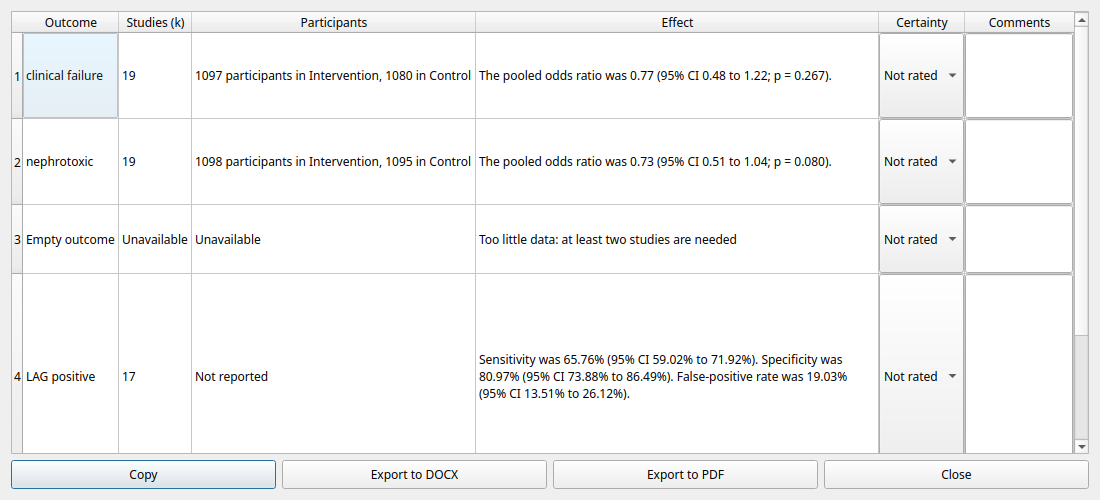
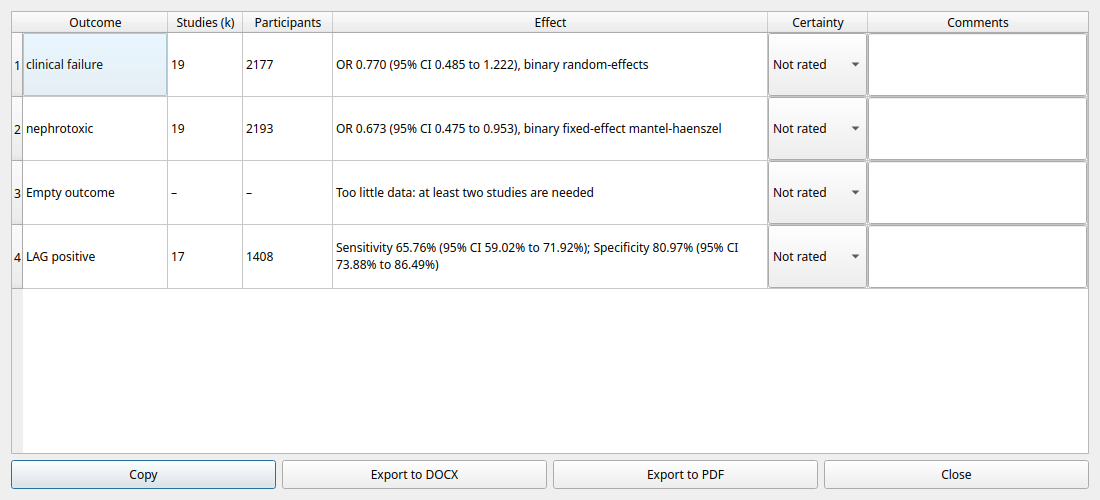
Use structured results for concise summary of findings cells

diff --git a/tests/e2e/summary_of_findings.py b/tests/e2e/summary_of_findings.py
@@ -19,6 +19,23 @@ def run(app, window, work, root, record, analyze):
     window.data_dirtied()
     window.out_path = str(work / 'summary-fixture.rcms')
     assert window.save()
+    expected = []
+    for index, method in enumerate(('binary.random', 'binary.fixed.mh')):
+        window.model.set_current_sheet(window.model.dataset.sheets[index].id)
+        window.model.current_sheet.settings['analysis'] = {'method': method, 'parameters': {'digits': 3}}
+        view = analyze(app, window, method)
+        expected.append(view.results)
+        from rc_metastudio import r_bridge
+        raw = window.model.get_current_raw_data()
+        columns = [','.join(str(row[i]) for row in raw) for i in range(4)]
+        data = 'a<-c(' + columns[0] + '); n1<-c(' + columns[1] + '); c<-c(' + columns[2] + '); n2<-c(' + columns[3] + ');'
+        fit = 'metafor::rma.uni(measure="OR",ai=a,bi=n1-a,ci=c,di=n2-c,method="DL",drop00=FALSE)' if index == 0 else 'metafor::rma.mh(measure="OR",ai=a,bi=n1-a,ci=c,di=n2-c,drop00=FALSE)'
+        reference = list(r_bridge.execute_r_string('local({' + data + ' fit<-' + fit + '; sprintf("%.3f",exp(c(fit$b,fit$ci.lb,fit$ci.ub)))})'))
+        record('summary-direct-metafor', view, reference=reference, raw=raw)
+        for table in (t for section in view.results.sections for t in section.tables if t.title.endswith('Model Results')):
+            assert list(table.rows[0][:3]) == reference
+        view.close()
+    window.model.set_current_sheet(window.model.dataset.sheets[0].id)
     action = next((a for a in window.menuAnalysis.actions()
                    if a.text() == 'Summary of findings'), None)
     assert action is not None, 'Analysis menu lacks Summary of findings'
@@ -27,6 +44,16 @@ def run(app, window, work, root, record, analyze):
     dialog = window.summary_of_findings_dialog
     assert dialog.table.rowCount() == 4
     for row in range(2):
+        assert '; p =' not in dialog.table.item(row, 3).text()
+        assert dialog.table.item(row, 2).text().isdigit()
+        assert ('random-effects' if row == 0 else 'fixed-effect') in dialog.table.item(row, 3).text()
+        for section in expected[row].sections:
+            for table in section.tables:
+                if table.title.endswith('Model Results'):
+                    cells = dict(zip(table.headers, table.rows[0]))
+                    for key, value in cells.items():
+                        if key == 'Estimate' or key.startswith(('Lower bound', 'Upper bound')):
+                            assert value in dialog.table.item(row, 3).text()
         assert dialog.table.item(row, 1).text() != '0'
         assert 'CI' in dialog.table.item(row, 3).text()
         assert dialog.table.cellWidget(row, 4).currentText() == 'Not rated'
@@ -46,9 +73,25 @@ def run(app, window, work, root, record, analyze):
     dialog.grab().save(str(screens / 'slice9-sof-dark.png'))
     app.setPalette(original)
     report = dialog.report()
-    from rc_metastudio.manuscript_report import write_docx, write_pdf
-    write_docx(report, work / 'summary.docx')
-    write_pdf(report, work / 'summary.pdf')
+    next(b for b in dialog.findChildren(QtWidgets.QPushButton) if b.text() == 'Copy').click()
+    mime = app.clipboard().mimeData()
+    assert mime.hasHtml() and '<table' in mime.html()
+    assert '\t' in mime.text() and 'clinical failure' in mime.text()
+    from unittest.mock import patch
+    from PyQt6.QtCore import QTimer
+    for suffix in ('docx', 'pdf'):
+        path = work / ('summary.' + suffix)
+        def picker(*args, **kwargs):
+            chooser = QtWidgets.QFileDialog(dialog)
+            chooser.setOption(QtWidgets.QFileDialog.Option.DontUseNativeDialog)
+            chooser.setAcceptMode(QtWidgets.QFileDialog.AcceptMode.AcceptSave)
+            chooser.selectFile(str(path))
+            QTimer.singleShot(0, chooser.accept)
+            assert chooser.exec()
+            return chooser.selectedFiles()[0], ''
+        with patch.object(QtWidgets.QFileDialog, 'getSaveFileName', side_effect=picker):
+            next(b for b in dialog.findChildren(QtWidgets.QPushButton) if b.text() == 'Export to ' + suffix.upper()).click()
+        assert path.exists()
     document = Document(work / 'summary.docx')
     assert len(document.tables[0].rows) == 5
     assert document.tables[0].cell(1, 4).text == 'Not rated'
@@ -58,6 +101,10 @@ def run(app, window, work, root, record, analyze):
     import unicodedata
     pdf_text = unicodedata.normalize('NFKC', pdf_text)
     assert 'Summary of findings' in pdf_text and 'Not rated' in pdf_text
+    dialog.table.cellWidget(0, 4).setCurrentText('Moderate')
+    window.undo()
+    assert window.model.dataset.sheets[0].settings.get('summary_of_findings', {}).get('certainty', 'Not rated') == 'Not rated'
+    dialog.table.cellWidget(0, 4).setCurrentText('Low')
     dialog.table.cellWidget(0, 4).setCurrentText('Moderate')
     dialog.table.cellWidget(0, 5).setText('Reviewer judgement')
     dialog.table.cellWidget(0, 5).editingFinished.emit()
@@ -70,3 +117,11 @@ def run(app, window, work, root, record, analyze):
     with zipfile.ZipFile(work / 'summary-fixture.rcms') as archive:
         project = json.loads(archive.read('project.json'))
     assert all('results' not in sheet for sheet in project['sheets'])
+    original_effect = report.sections[0].tables[0].rows[0][3]
+    window.model.dataset.sheets[0].rows[0].analysis_unit.get_raw_data_for_arm(window.model.arm_names[0])[0] += 10
+    action.trigger()
+    app.processEvents()
+    refreshed = window.summary_of_findings_dialog
+    assert refreshed.table.item(0, 3).text() != original_effect
+    record('summary-data-refresh', refreshed, effect=refreshed.table.item(0, 3).text())
+    refreshed.close()

diff --git a/src/rc_metastudio/summary_of_findings.py b/src/rc_metastudio/summary_of_findings.py
@@ -1,6 +1,6 @@
 """Reviewers' cross-outcome summary, recalculated on every opening."""
 import copy
-import re
+from rc_metastudio import app_error_handler
 from PyQt6 import QtCore, QtWidgets
 from rc_metastudio.analysis_results import ResultSection, ResultTable
 from rc_metastudio.manuscript_report import ManuscriptReport, write_docx, write_pdf
@@ -30,7 +30,7 @@ class SummaryOfFindingsDialog(QtWidgets.QDialog):
         QtWidgets.QApplication.processEvents()
         try:
             for row, sheet in enumerate(window.model.dataset.sheets):
-                values = [sheet.name, 'Unavailable', 'Unavailable', 'No analysable data']
+                values = [sheet.name, '–', '–', 'No analysable data']
                 setup = None
                 try:
                     model = DatasetTableModel(dataset=copy.deepcopy(window.model.dataset), add_blank_study=False)
@@ -41,11 +41,35 @@ class SummaryOfFindingsDialog(QtWidgets.QDialog):
                                                 confidence_level=model.get_confidence_level(),
                                                 diagnostic_metrics=("sens", "spec") if model.get_current_outcome_type() == "diagnostic" else None, parent=self)
                     result = setup._with_result_identity(window.analysis_service.execute(model, setup.analysis_requests()))
-                    report = ManuscriptReport.from_result(result)
-                    effects = [text for text in report.summary if text.startswith('The pooled ') or ' CI ' in text]
-                    counts = re.findall(r'\(([^)]*participants[^)]*)\)', result.manuscript_context)
-                    values = [sheet.name, str(len(model.get_studies())), counts[0] if counts else 'Not reported', ' '.join(effects) or report.results]
+                    effects = []
+                    for section in result.sections:
+                        for table in section.tables:
+                            if table.headers == ('Statistic', 'Value') and table.title in ('Sensitivity', 'Specificity'):
+                                cells = dict(table.rows)
+                                if not any('CI' in key for key in cells):
+                                    continue
+                                label = table.title
+                            elif table.title.endswith('Model Results') and len(table.rows) == 1:
+                                cells = dict(zip(table.headers, table.rows[0]))
+                                label = model.current_effect
+                            else:
+                                continue
+                            lower = next(v for k, v in cells.items() if k.startswith('Lower bound'))
+                            upper = next(v for k, v in cells.items() if k.startswith('Upper bound'))
+                            level = next(k.partition('(')[2].rstrip(') ').strip() for k in cells if k.startswith('Lower bound'))
+                            effects.append(f"{label} {cells['Estimate']} ({level} {lower} to {upper})")
+                    effect = '; '.join(effects)
+                    if setup.data_type != 'diagnostic':
+                        effect += ', ' + setup.method_cbo_box.currentText().lower()
+                    raw = model.get_current_raw_data()
+                    positions = {'binary': (1, 3), 'continuous': (0, 3), 'diagnostic': (0, 1, 2, 3)}.get(setup.data_type)
+                    if positions is not None:
+                        participants = sum(sum(row[i] for i in positions if i < len(row)) for row in raw)
+                    else:
+                        participants = sum(study.sample_size or 0 for study in model.get_studies())
+                    values = [sheet.name, str(len(model.get_studies())), f'{participants:g}', effect]
                 except Exception as error:
+                    app_error_handler.log_exception(type(error), error, error.__traceback__)
                     values[3] = str(error).splitlines()[0] or 'Analysis could not be completed'
                 finally:
                     if setup is not None:
@@ -68,9 +92,12 @@ class SummaryOfFindingsDialog(QtWidgets.QDialog):
         finally:
             progress.close()
             progress.deleteLater()
-        self.table.horizontalHeader().setSectionResizeMode(QtWidgets.QHeaderView.ResizeMode.ResizeToContents)
-        self.table.horizontalHeader().setSectionResizeMode(3, QtWidgets.QHeaderView.ResizeMode.Stretch)
-        self.table.resizeRowsToContents()
+        header = self.table.horizontalHeader()
+        for column, width in enumerate((145, 75, 90, 425, 100, 220)):
+            header.setSectionResizeMode(column, QtWidgets.QHeaderView.ResizeMode.Interactive)
+            self.table.setColumnWidth(column, width)
+        header.setSectionResizeMode(3, QtWidgets.QHeaderView.ResizeMode.Stretch)
+        self.table.verticalHeader().setDefaultSectionSize(64)
 
     def edit(self, sheet_id, key, value):
         sheet = self.owner.model.dataset.sheet(sheet_id)

diff --git a/docs/ux-hill-climb/SLICE9.md b/docs/ux-hill-climb/SLICE9.md
@@ -1,31 +1,52 @@
-# Slice 9: Summary of findings (partial implementation)
+# Slice 9: Summary of findings
 
-Analysis > Summary of findings opens a cross-sheet table using fresh analysis
-requests built by the ordinary setup dialog. The isolated models do not navigate
-or mutate the source sheets. Reviewer certainty and comments use sheet settings
-and workspace edit transactions. Copy uses HTML and TSV; exports reuse the
-manuscript writers. Empty sheets retain an explicit reason.
+Analysis > Summary of findings recalculates each sheet through the ordinary
+analysis setup and service, preserving saved model, parameters and sheet
+confidence level. Cells use held structured result tables rather than manuscript
+sentences: estimate and confidence interval, followed by the method; diagnostic
+rows contain only sensitivity and specificity confidence intervals. Participants
+are summed from included raw data (including all four diagnostic cells); k uses
+the included studies, retaining double-zero rows as Run does. Empty sheets show
+en dashes and a short reason. Analysis failures also log their traceback through
+the application error handler.
 
-The real-menu scenario derives a four-sheet fixture from amino and lymph and
-retains it in workflow evidence. It exercises default cells, empty data,
-diagnostic rendering, DOCX cells, PDF extracted text and reviewer-setting
-save/reopen. Light and dark captures use Qt palettes, offscreen.
+The table gives Comments useful width, narrows Certainty, and uses compact rows
+without horizontal scrolling at its default size. Both screenshots are refreshed
+from the real offscreen Qt dialog using light and dark palettes.
 
-Unfinished: independent ordinary-Run/direct-metafor cell comparisons; data-edit
-refresh assertion; diagnostic patient count (currently Not reported); reduce the
-diagnostic Effect cell to sensitivity and specificity only; report participant
-counts consistently across data families. The current table reuses manuscript
-sentences, including their p-values, rather than a concise effect-only cell.
-Export UI picker and Copy interaction assertions also remain. This is not a
-completed or qualified slice. No statistical methods or oracles changed.
+The precision discrepancy was configuration, not numerical rounding corruption:
+the existing ordinary-Run driver explicitly sets Decimal Places to 3, while a
+fresh setup defaults to 2. Running does not persist that choice in sheet analysis
+settings. The scenario now supplies saved three-decimal settings and compares
+every non-diagnostic row with ordinary Run, including fixed-effect
+Mantel–Haenszel. Saved settings were already restored by AnalysisSetupDialog.
+The summary consumes the exact formatted result fields, preserving their digits.
+Both amino rows also compare against direct metafor fits at display precision.
+No statistical methods or frozen oracles changed.
 
-Verification: the initial real-menu assertion failed as intended. Final standalone
-`uv run --no-sync python scripts/verify_rcms.py summary-of-findings` passed with
-manifest `artifacts/verification/rcms/20261101T055516Z-596e94d5-summary-of-findings/manifest.json`.
-`sheets-persist`, `manuscript-export`, and `amino` each passed. The uninterrupted
-`uv run --no-sync python -m pytest tests/e2e -n 2 -q -k "summary or manuscript or sheets"`
-passed 7 cases in 270.21 seconds. Every command sourced
-`build/sheets-baseline/ENV.sh`; no sync or oracle regeneration was performed.
-An intermediate PDF assertion needed NFKC normalization for extracted ligatures;
-its failed evidence remains retained. No push: the requested full behavior and
-proof obligations above remain unfinished.
+The real-menu scenario retains inputs, commands and evidence through verify-rcms.
+It proves participant totals, concise cells, empty data, diagnostic rendering,
+ordinary Run agreement, direct metafor agreement, clipboard HTML and tab-separated
+text, both export buttons through non-native save dialogs, DOCX cells, extracted
+PDF text, judgement undo, saved judgement reopen, and recalculation after a study
+edit. Screenshots demonstrate offscreen Qt, not native window-manager behavior.
+
+Verification commands source `build/sheets-baseline/ENV.sh` and use
+`uv run --no-sync`; no environment synchronization or oracle regeneration.
+The initial concise-cell assertion failed on the old p-value prose, with evidence
+in `artifacts/verification/rcms/20261101T055736Z-aa6df40d-summary-of-findings`.
+The final summary drive passed at
+`artifacts/verification/rcms/20261101T060049Z-06bdd88c-summary-of-findings`.
+
+Final ordered verification: summary-of-findings, sheets-persist,
+manuscript-export, and amino all passed. The following uninterrupted command
+passed **7 tests in 247.26 seconds**:
+
+```
+uv run --no-sync python -m pytest tests/e2e -n 2 -q -k "summary or manuscript or sheets"
+```
+
+The targeted runs retain manifests under `artifacts/verification/rcms/`:
+`20261101T060137Z-2fce642a-sheets-persist`,
+`20261101T060147Z-df209d9e-manuscript-export`, and
+`20261101T060300Z-37ef321d-amino`.
